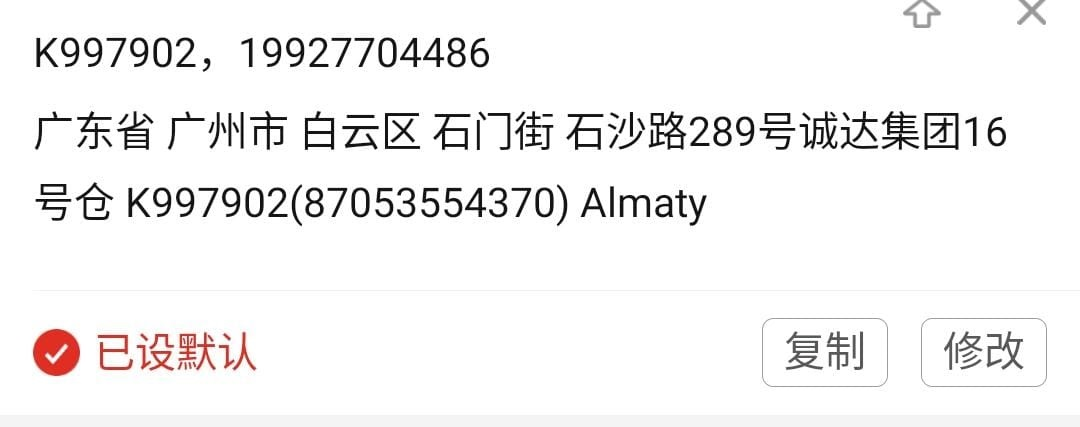
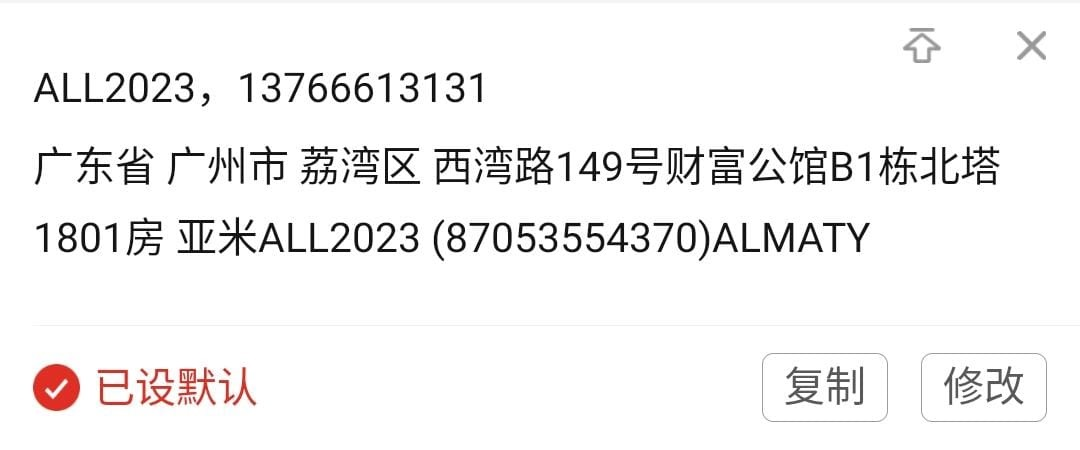
Address

diff --git a/resources/views/layouts/navigation.blade.php b/resources/views/layouts/navigation.blade.php
@@ -56,7 +56,7 @@
 
                     <div class="bg-[#fab4b4] p-2 mt-4 mb-4">
                         <p><span>Образец</span></p>
-                        <img src="{{asset('images/china.jpg')}}" alt="China">
+                        <img src="{{asset('images/chinanew.jpg')}}" alt="China">
                     </div>
 
                     <hr class="h-px mt-4 bg-gray-200 border-0">
